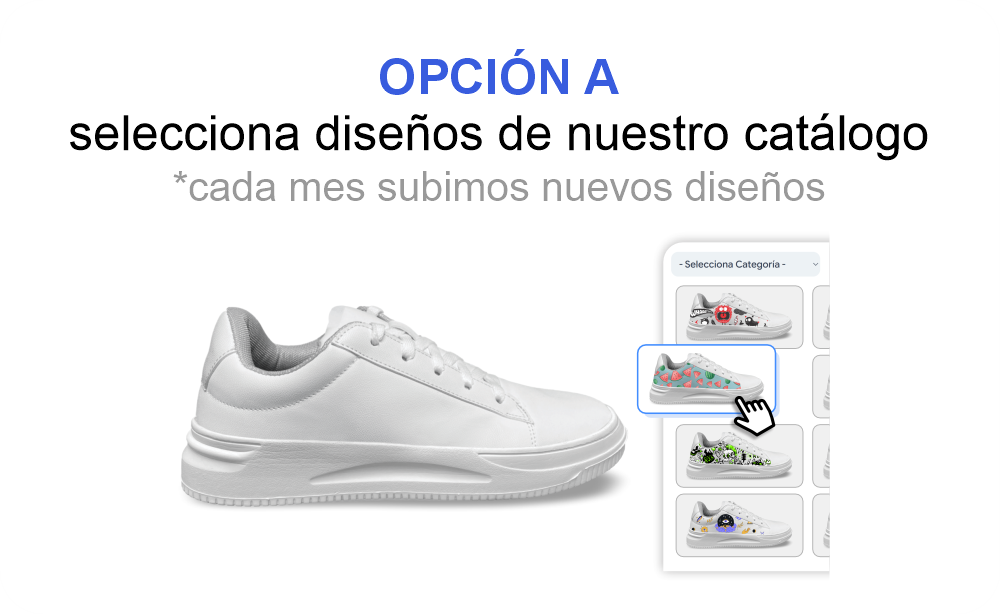
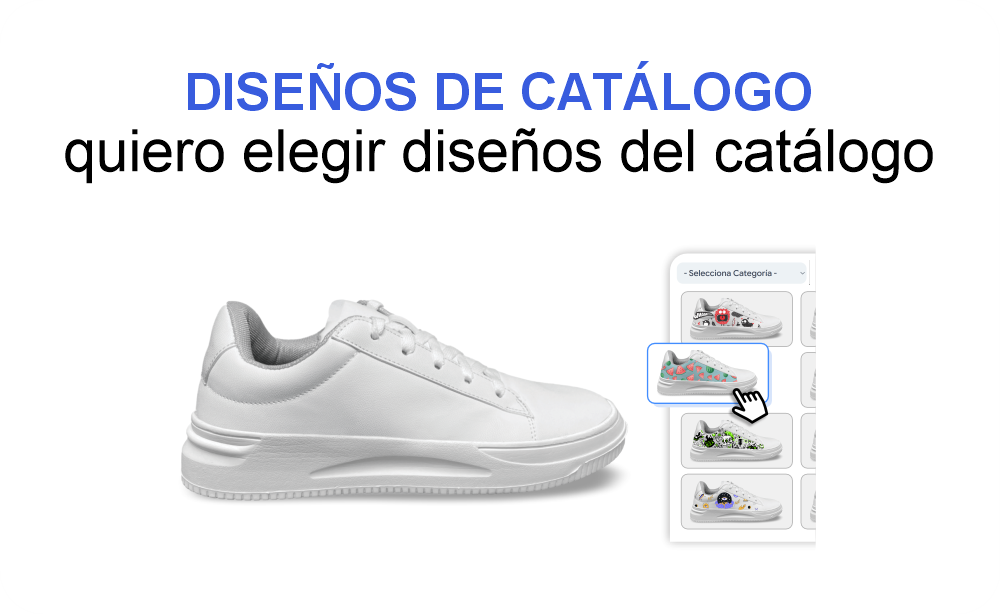
Ajustes de responsividad, enlaces externos en opciones y cambio en texto de características.

diff --git a/public/index.html b/public/index.html
@@ -76,8 +76,8 @@
                             para ti.</span></li>
                     <li><i data-lucide="check"></i><span>Tallas del #22 al #30</span></li>
                     <li><i data-lucide="check"></i><span>Incluye envío a todo México</span></li>
-                    <li><i data-lucide="check"></i><span>Modelo casual unisex.<br><span class="feature-item-note">*igual
-                                al de las fotos</span></span></li>
+                    <li><i data-lucide="check"></i><span>Modelo casual unisex.<br><span class="feature-item-note">*el
+                                modelo de tenis es igual al de las fotos</span></span></li>
                 </ul>
             </div>
 

diff --git a/public/options.html b/public/options.html
@@ -17,11 +17,11 @@
         <h1 class="options-title">Elige como quieres diseñar tus tenis</h1>
 
         <div class="options-grid">
-            <a href="https://app.esnikis.com/solo-catalogo" class="option-card">
+            <a href="https://app.esnikis.com/solo-catalogo" class="option-card" target="_blank">
                 <img src="img-opcion-a.png">
             </a>
 
-            <a href="https://app.esnikis.com/solo-custom" class="option-card">
+            <a href="https://app.esnikis.com/solo-custom" class="option-card" target="_blank">
                 <img src="img-opcion-b.png">
             </a>
         </div>

diff --git a/public/options.css b/public/options.css
@@ -92,7 +92,6 @@ body {
 .footer-note {
     font-size: 0.85rem;
     color: #888;
-    max-width: 650px;
     margin: 0 auto;
     line-height: 1.5;
     font-weight: 400;
@@ -126,8 +125,8 @@ body {
 /* Responsive */
 @media (max-width: 768px) {
     .options-title {
-        font-size: 2.2rem;
-        margin-bottom: 30px;
+        font-size: 1.7rem;
+        margin-bottom: 5px;
     }
 
     .option-card {
